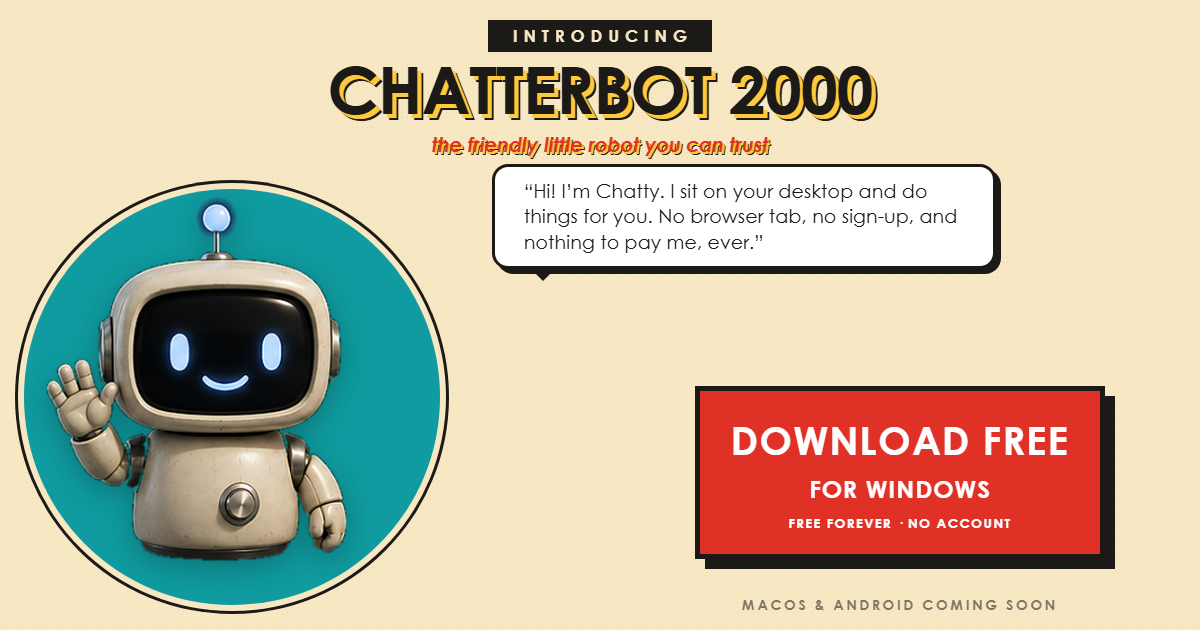
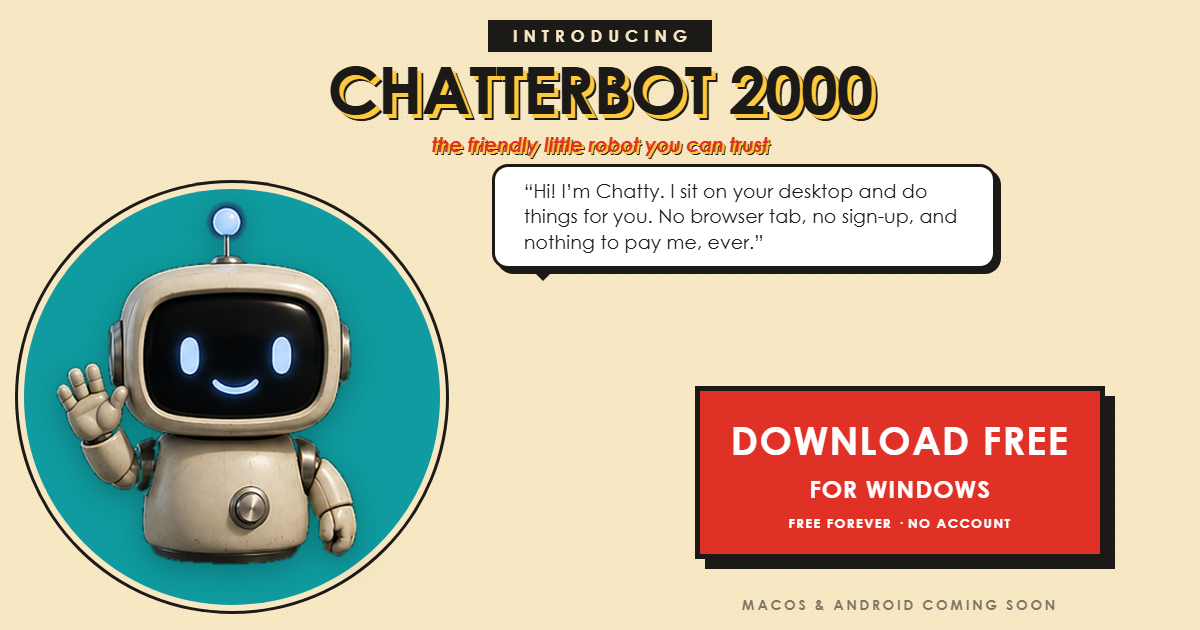
Card: -3/-4, chosen by comparing six renders rather than nudging
-6/-5 pulled him off the right edge and left a bare wedge of teal; 0 let his
base and right elbow cross the bottom-right rim. -3/-4 has air on all four
sides.

Claude-Session: https://claude.ai/code/session_018YBC4tRw2M1weptBF6PXnS

Changed region(s): [[0.0308, 0.3016, 0.3083, 0.9048]]

diff --git a/og.html b/og.html
@@ -117,7 +117,11 @@ h1 em {
 .art img {
   position: relative;
   width: 81%; height: auto;
-  transform: translate(-6%, -5%);
+  /* Chosen by rendering the card at six offsets and comparing them, not by
+     nudging one at a time: at 0 his base and right elbow cross the bottom-right
+     rim, and by -6/-5 he has pulled away from the right edge and left a bare
+     wedge of teal. -3/-4 is the pair with air on all four sides. */
+  transform: translate(-3%, -4%);
   filter: drop-shadow(0 8px 14px rgba(0,0,0,.25));
 }
 
